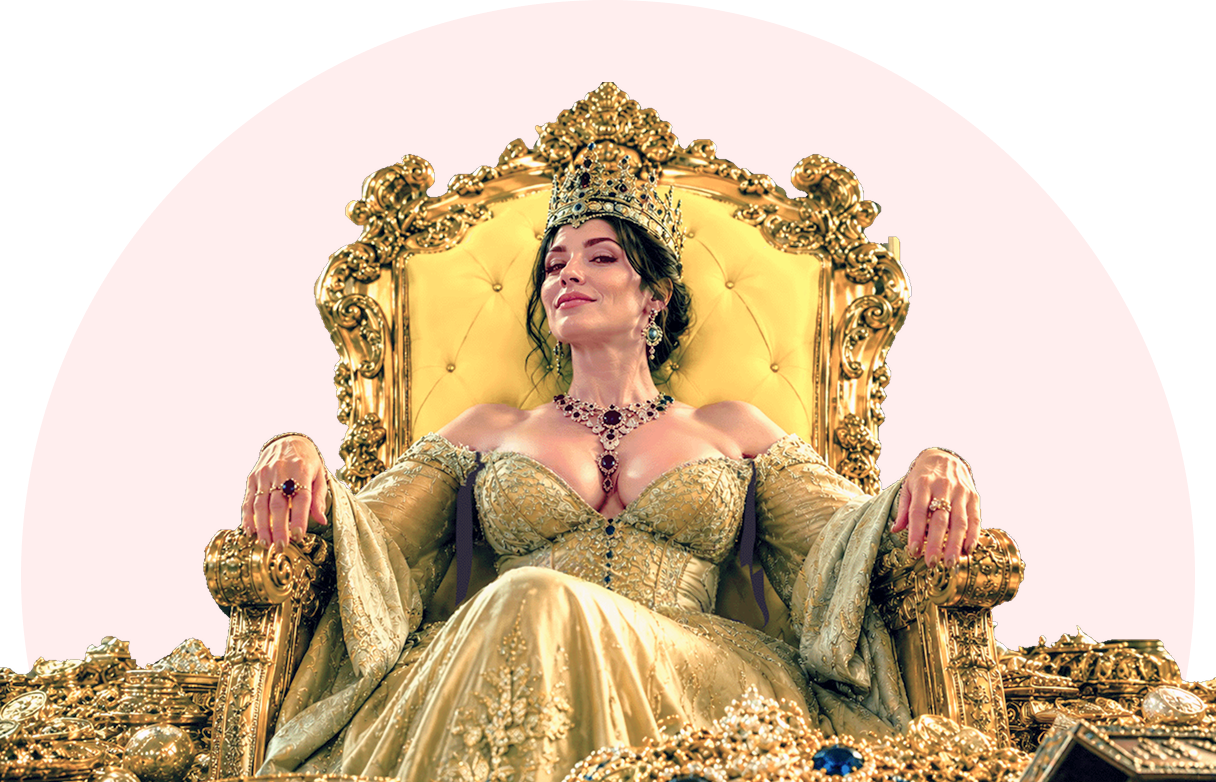
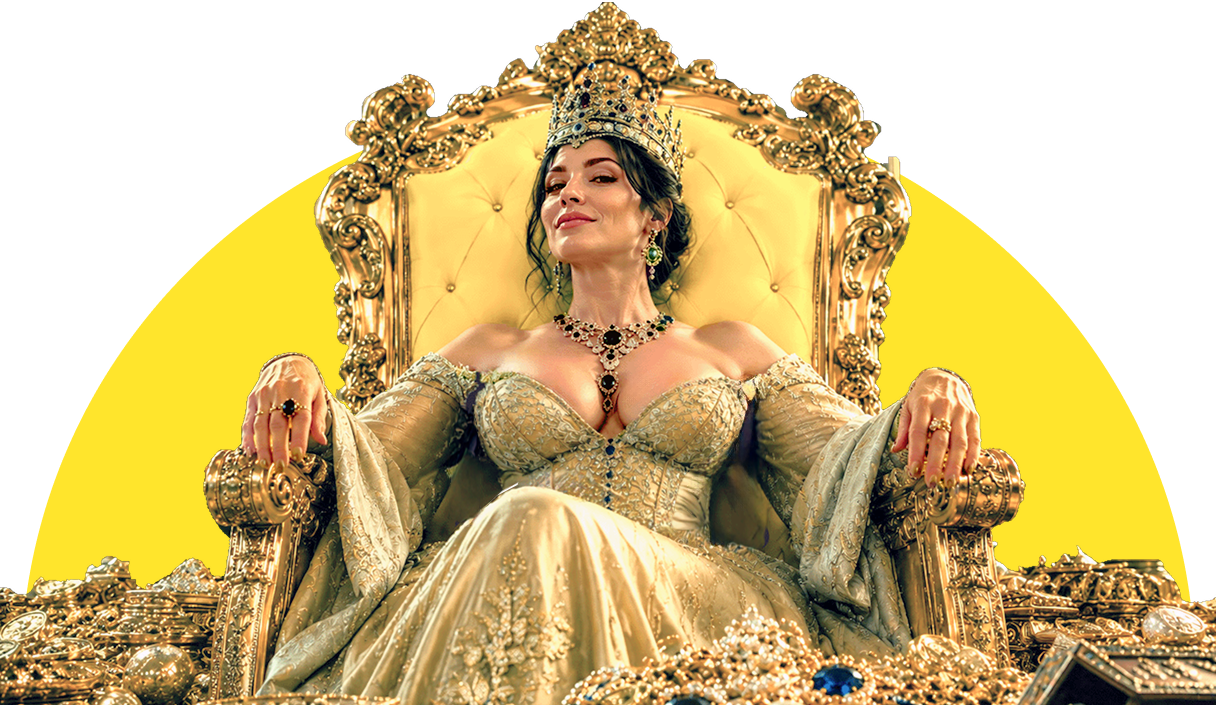
Use separate empire images for desktop and mobile
Add empire-mobile.png for ≤600px, keep empire.png for tablet/desktop.
Toggle visibility with max-phone:hidden / max-phone:block.

diff --git a/src/components/Offerings.jsx b/src/components/Offerings.jsx
@@ -42,6 +42,7 @@ const OFFERINGS = [
 ]
 
 const empireImg = `${BASE}empire.png`
+const empireImgMobile = `${BASE}empire-mobile.png`
 
 function OfferingRow({ image, imageLeft, category, title, description, cta }) {
   const textBlock = (
@@ -123,7 +124,12 @@ export default function Offerings() {
               <img
                 src={empireImg}
                 alt=""
-                className="absolute inset-0 w-full h-full object-cover object-top"
+                className="absolute inset-0 w-full h-full object-cover object-top max-phone:hidden"
+              />
+              <img
+                src={empireImgMobile}
+                alt=""
+                className="absolute inset-0 w-full h-full object-cover object-top hidden max-phone:block"
               />
             </div>
 
